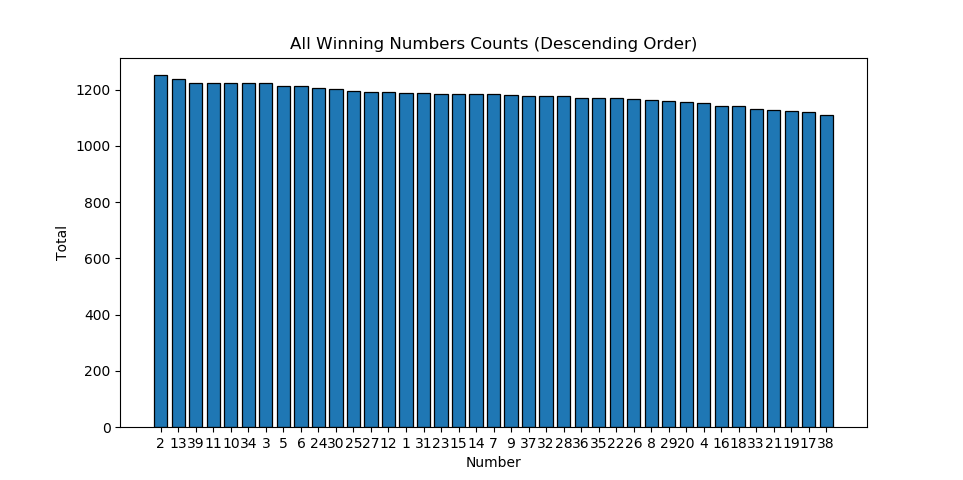
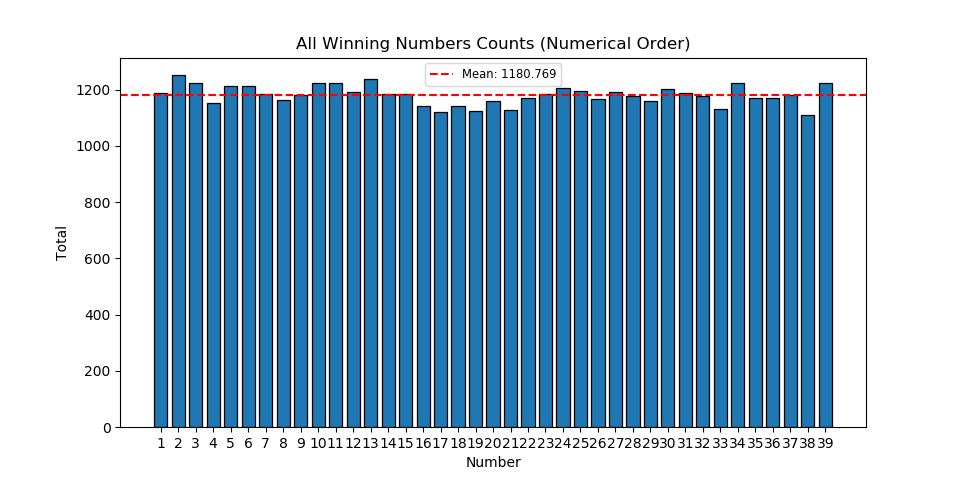
count mean:

diff --git a/fantasy5stats.py b/fantasy5stats.py
@@ -120,18 +120,20 @@ def print_stats(histogram_items, histogram_dict, ascend_hist, tot_cnt, tot_sum, 
         print("{:>2}: {} ({:.3f}%)".format(num, histogram_dict[num], (histogram_dict[num] / tot_cnt)*100))
 
     current_numbers_int = [*map(int, current_numbers)]
-    num_sum = sum(current_numbers_int)
-    cnt_sum = sum([*map(lambda x: histogram_dict[x], current_numbers)])
-
-    print("\nLast Winning Numbers Day Sum   : {}".format(num_sum))
-    print("Last Winning Numbers Day Mean  : {:.3f}".format(num_sum / 5))
-    print("Last Winning Numbers Day Stdev.: {:.3f}".format(pstdev(current_numbers_int)))
+    current_num_sum = sum(current_numbers_int)
+    current_num_mean = current_num_sum / 5
+    current_num_stdev = pstdev(current_numbers_int)
+    print("\nLast Winning Numbers Day Sum   : {}".format(current_num_sum))
+    print("Last Winning Numbers Day Mean  : {:.3f}".format(current_num_mean))
+    print("Last Winning Numbers Day Stdev.: {:.3f}".format(current_num_stdev))
 
     histogram_lists = [*map(list, zip(*histogram_items))]
-
+    cnt_mean = mean(histogram_lists[1])
     plt.figure(0)
     plt.bar(histogram_lists[0], histogram_lists[1], width=0.75, edgecolor='black', linewidth=0.9)
+    plt.axhline(cnt_mean, label="Mean: {:.3f}".format(cnt_mean), linestyle="--", color="red")
     plt.title("All Winning Numbers Counts ({})".format(ORDER))
+    plt.legend(loc=0, fontsize="small")
     plt.xlabel("Number")
     plt.ylabel("Total")
 
@@ -146,6 +148,7 @@ def print_stats(histogram_items, histogram_dict, ascend_hist, tot_cnt, tot_sum, 
     plots[1].axvline(mean(daily_stdevs), label="Mean: {:.3f}".format(mean(daily_stdevs)), linestyle="--", color="red", linewidth=0.9)
     plots[1].axvline(median(daily_stdevs), label="Median: {:.3f}".format(median(daily_stdevs)), linestyle="--", color="#00FF00", linewidth=0.9)
     plots[1].axvline(mode(daily_stdevs_rounded), label="Rounded Mode: {}".format(mode(daily_stdevs_rounded)), linestyle="--", color="#FF8C00", linewidth=0.9)
+    plots[1].axvline(current_num_stdev, label="Last Winning Stdev.: {:.3f}".format(current_num_stdev), linestyle="-.", color="#9932CC", linewidth=1)
     for i, stdev_stdev in enumerate(stdevs_daily_stdevs):
         if i == 0:
             plots[1].axvline(stdev_stdev, linestyle="-", label="Stdev.", color="#2F4F4F", linewidth=0.9)
@@ -164,6 +167,7 @@ def print_stats(histogram_items, histogram_dict, ascend_hist, tot_cnt, tot_sum, 
     plots[1].axvline(mean_daily_means, label="Mean: {:.3f}".format(mean_daily_means), linestyle="--", color="red", linewidth=0.9)
     plots[1].axvline(mode(daily_means_rounded), label="Rounded Mode: {}".format(mode(daily_means_rounded)), linestyle="--", color="#FF8C00", linewidth=0.9)
     plots[1].axvline(median(daily_means), label="Median: {:.3f}".format(median(daily_means)), linestyle="--", color="#00FF00", linewidth=0.9)
+    plots[1].axvline(current_num_mean, label="Last Winning Mean: {:.3f}".format(current_num_mean), linestyle="-.", color="#9932CC", linewidth=1)
     for i, mean_stdev in enumerate(stdevs_mean_daily_means):
         if i == 0:
             plots[1].axvline(mean_stdev, linestyle="-", label="Stdev.", color="#2F4F4F", linewidth=0.9)
